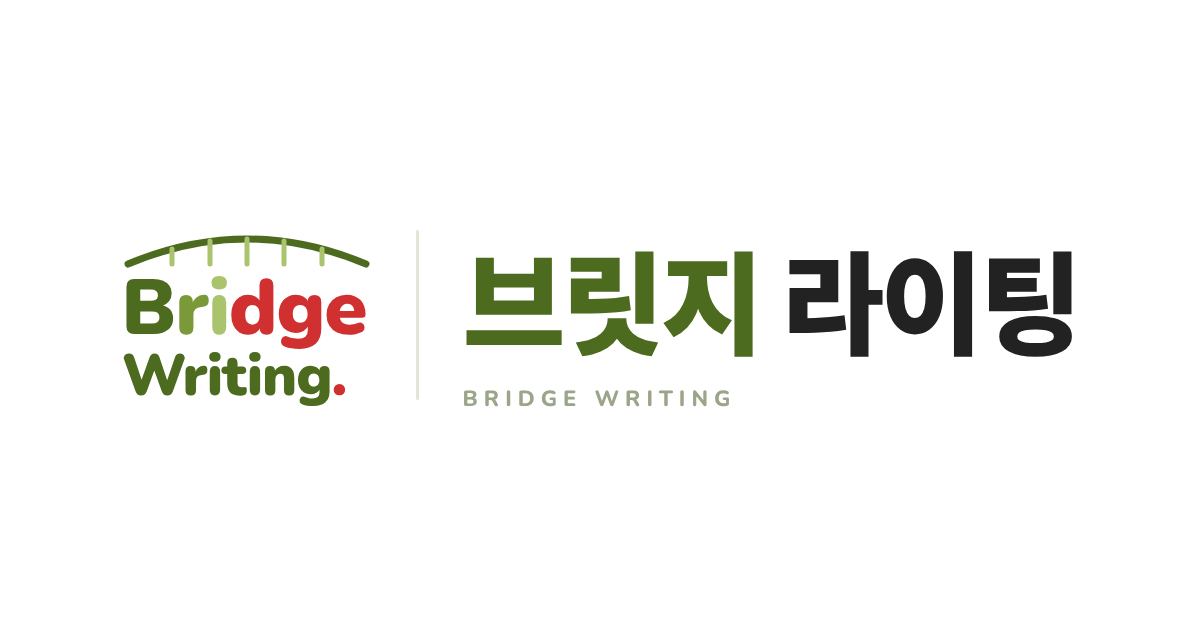
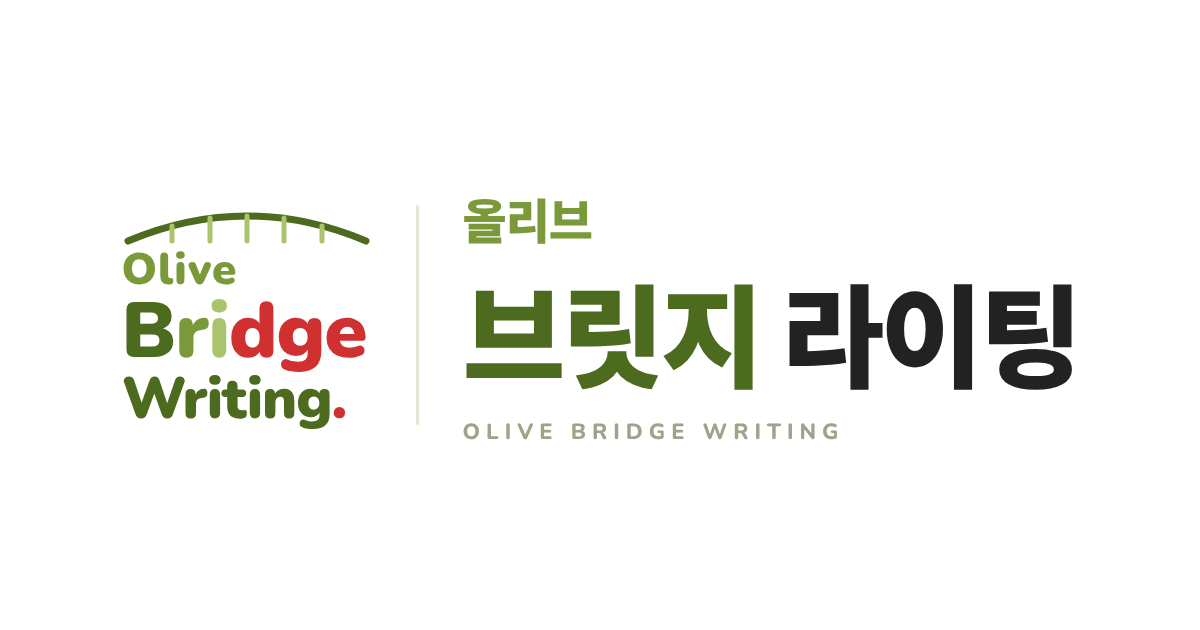
이름을 올리브 브릿지 라이팅으로: 미리보기 제목 · 이미지, 로그인, 학생 홈, 쌤 메뉴, 홈 화면 앱 이름
Claude-Session: https://claude.ai/code/session_017FgzGGz4WxTofPTfJQVDzv

Changed region(s): [[0.37, 0.3016, 0.8942, 0.6937], [0.0925, 0.3317, 0.3083, 0.6937]]

diff --git a/src/app/layout.tsx b/src/app/layout.tsx
@@ -1,7 +1,7 @@
 import "./globals.css";
 import type { Metadata, Viewport } from "next";
 
-const TITLE = "브릿지 라이팅";
+const TITLE = "올리브 브릿지 라이팅";
 const DESC = "문장 드릴부터 국제학교 에세이까지";
 
 export const metadata: Metadata = {
@@ -10,8 +10,8 @@ export const metadata: Metadata = {
   description: DESC,
   manifest: "/manifest.webmanifest",
   // 카톡 · 문자 링크 미리보기 (이미지는 public/og.png, 1200×630)
-  openGraph: { type: "website", url: "/", siteName: TITLE, title: TITLE, description: DESC, images: [{ url: "/og.png?v=2", width: 1200, height: 630, alt: TITLE }], locale: "ko_KR" },
-  twitter: { card: "summary_large_image", title: TITLE, description: DESC, images: ["/og.png?v=2"] },
+  openGraph: { type: "website", url: "/", siteName: TITLE, title: TITLE, description: DESC, images: [{ url: "/og.png?v=3", width: 1200, height: 630, alt: TITLE }], locale: "ko_KR" },
+  twitter: { card: "summary_large_image", title: TITLE, description: DESC, images: ["/og.png?v=3"] },
 };
 export const viewport: Viewport = { width: "device-width", initialScale: 1, themeColor: "#4C6B1F" };
 

diff --git a/src/app/student/page.tsx b/src/app/student/page.tsx
@@ -63,7 +63,7 @@ export default async function StudentHome() {
     <div className="app wide">
       <header className="hero">
         <div className="row" style={{ justifyContent: "space-between" }}>
-          <span className="row" style={{ gap: 8, fontSize: 14, fontWeight: 800, color: "#e3edcb" }}><BridgeMark width={40} color="#e3edcb" post="#A9C46C" />브릿지 라이팅</span>
+          <span className="row" style={{ gap: 8, fontSize: 14, fontWeight: 800, color: "#e3edcb" }}><BridgeMark width={40} color="#e3edcb" post="#A9C46C" />올리브 브릿지 라이팅</span>
           <form action={logout} className="row" style={{ gap: 8 }}>
             <span style={{ fontSize: 13, fontWeight: 700, background: "rgba(255,255,255,0.16)", borderRadius: 999, padding: "4px 12px" }}>{me.nickname || me.name}</span>
             <button className="btn ghost sm" style={{ minHeight: 32, padding: "0 10px", fontSize: 12 }}>나가기</button>

diff --git a/src/components/LoginScreen.tsx b/src/components/LoginScreen.tsx
@@ -9,8 +9,8 @@ export default function LoginScreen() {
       <section className="login-side">
         <div className="login-side-in">
           <div style={{ marginBottom: 14 }}><BridgeMark width={150} color="#fff" post="#A9C46C" /></div>
-          <div className="login-kicker">BRIDGE WRITING</div>
-          <h1 className="login-title">브릿지 라이팅</h1>
+          <div className="login-kicker">OLIVE BRIDGE WRITING</div>
+          <h1 className="login-title">올리브<br />브릿지 라이팅</h1>
           <p className="login-sub">문장 드릴부터 국제학교 에세이까지.<br />매일 조금씩 쓰고, 쌤 첨삭으로 한 문장씩 자라요.</p>
           <div className="small" style={{ marginTop: 28, color: "#cfe0a6", fontWeight: 700 }}>올리브영어 아카데미</div>
         </div>

diff --git a/src/app/teacher/layout.tsx b/src/app/teacher/layout.tsx
@@ -11,7 +11,7 @@ export default async function TeacherLayout({ children }: { children: React.Reac
   return (
     <div className="tshell">
       <nav className="tnav noprint" aria-label="쌤 메뉴">
-        <div className="b">브릿지 라이팅<small>{me.name} · 쌤 화면</small></div>
+        <div className="b">올리브 브릿지 라이팅<small>{me.name} · 쌤 화면</small></div>
         <TeacherNav pending={pending} />
         <form action={logout} style={{ marginTop: "auto" }}><button className="btn ghost sm" style={{ width: "100%" }}>로그아웃</button></form>
       </nav>

diff --git a/src/components/BridgeMark.tsx b/src/components/BridgeMark.tsx
@@ -1,4 +1,4 @@
-/** 브릿지 라이팅 다리 모양 (로고) */
+/** 올리브 브릿지 라이팅 다리 모양 (로고) */
 export default function BridgeMark({ width = 120, color = "#4C6B1F", post = "#A9C46C" }: { width?: number; color?: string; post?: string }) {
   return (
     <svg width={width} height={(width * 40) / 250} viewBox="0 0 250 40" aria-hidden="true" style={{ display: "block" }}>

diff --git a/README.md b/README.md
@@ -1,4 +1,4 @@
-# 올리브 라이팅 (새 버전)
+# 올리브 브릿지 라이팅
 
 단어 → 문장 → 글쓰기를 매주 한 유닛씩. 학생은 앱에서 단어 · 문장을 연습하고, 워크북 숙제를 사진으로 인증하고, 쌤은 빨간 펜으로 첨삭해요.
 
